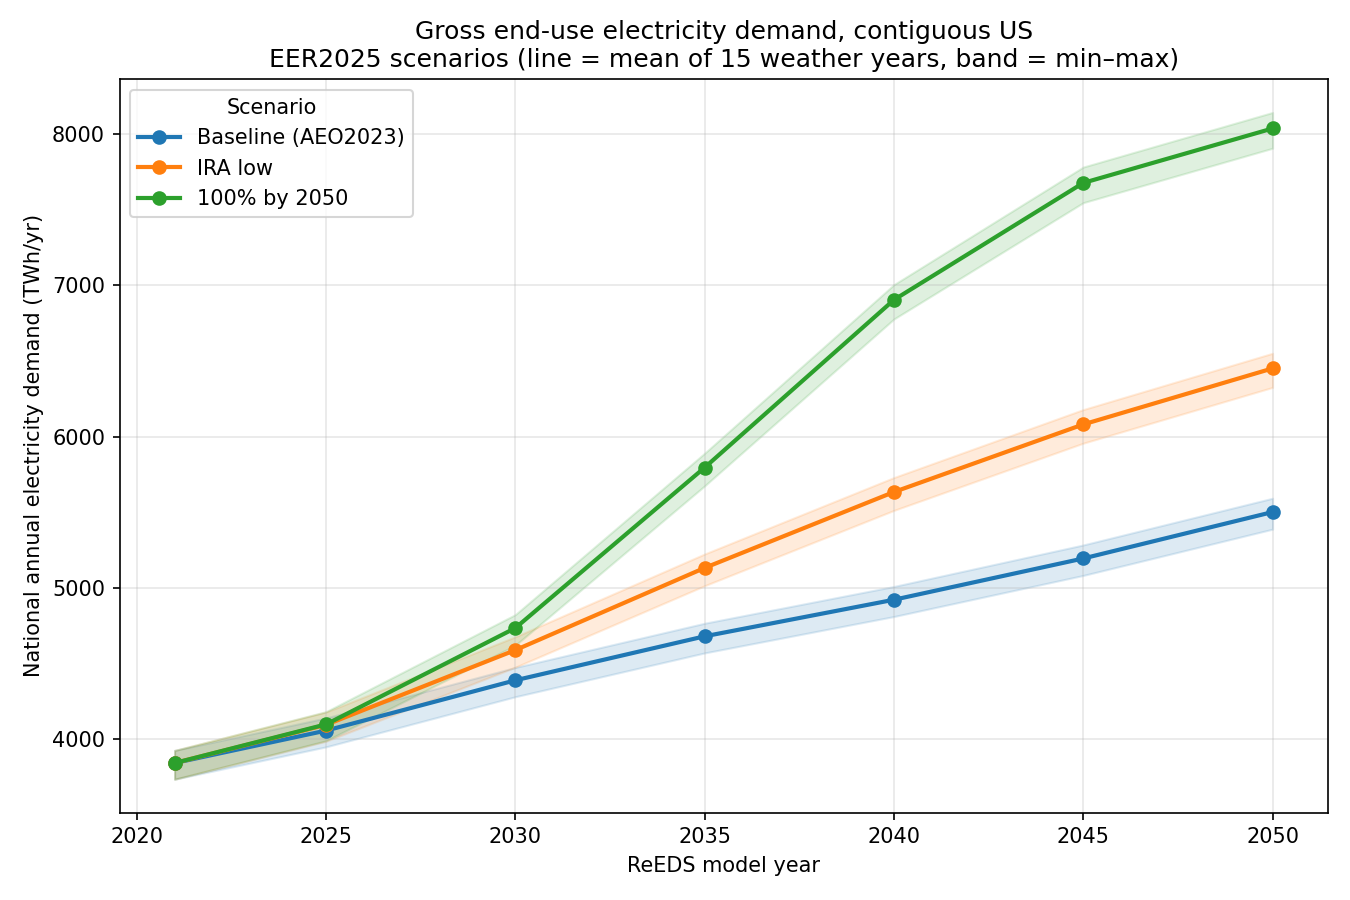
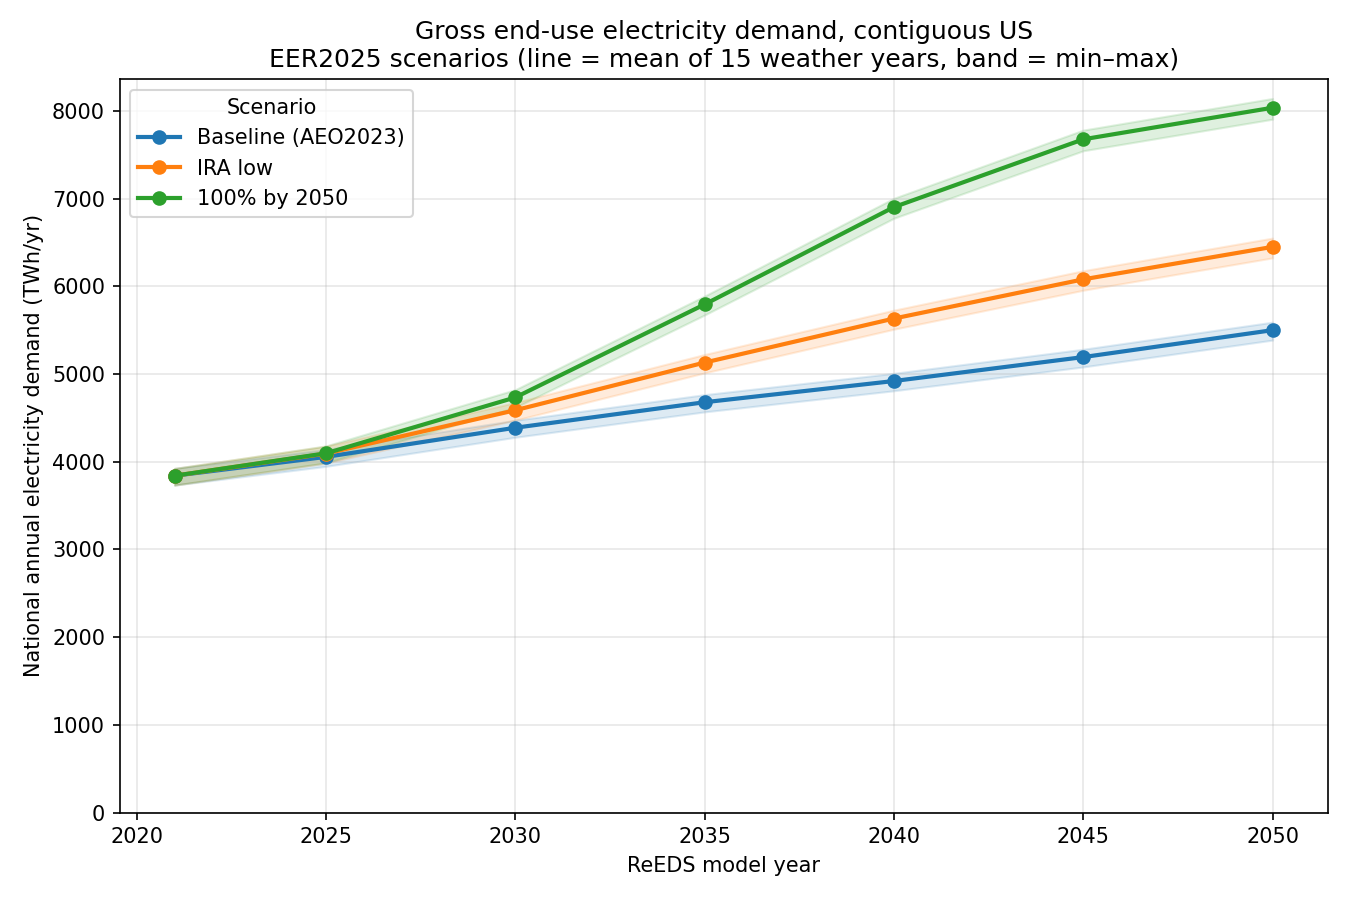
made y-axis start at 0

diff --git a/plot_annual_demand.py b/plot_annual_demand.py
@@ -62,6 +62,7 @@ def main():
         ax.plot(yrs, mean, "-o", color=c, lw=2, label=label)
         print(f"{label:20s} " + "  ".join(f"{y}:{m:6.0f}" for y, m in zip(yrs, mean)))
 
+    ax.set_ylim(bottom=0)
     ax.set_xlabel("ReEDS model year")
     ax.set_ylabel("National annual electricity demand (TWh/yr)")
     ax.set_title("Gross end-use electricity demand, contiguous US\n"